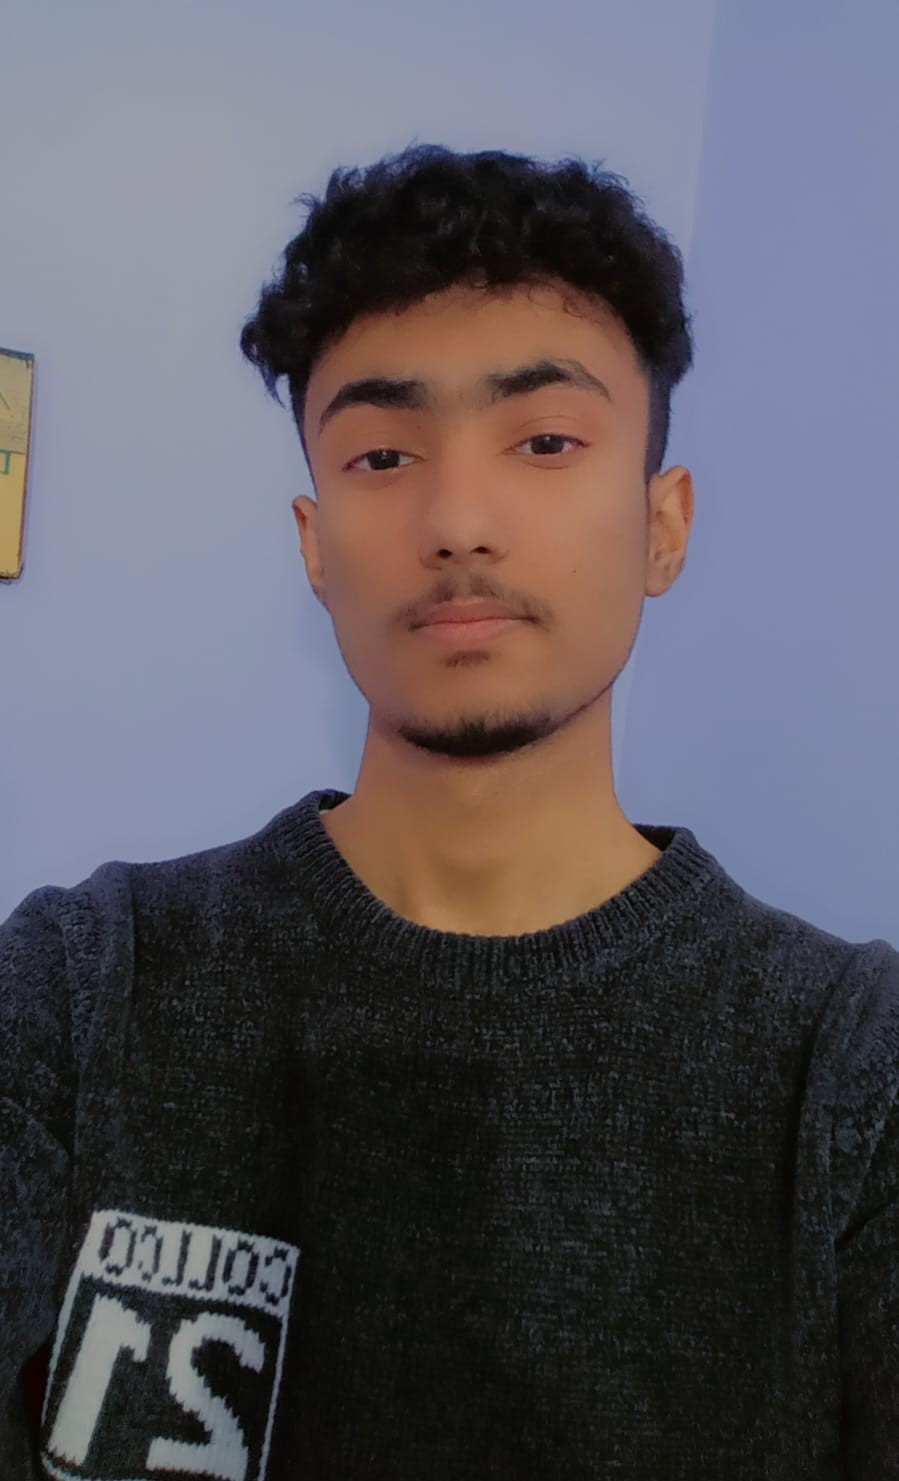
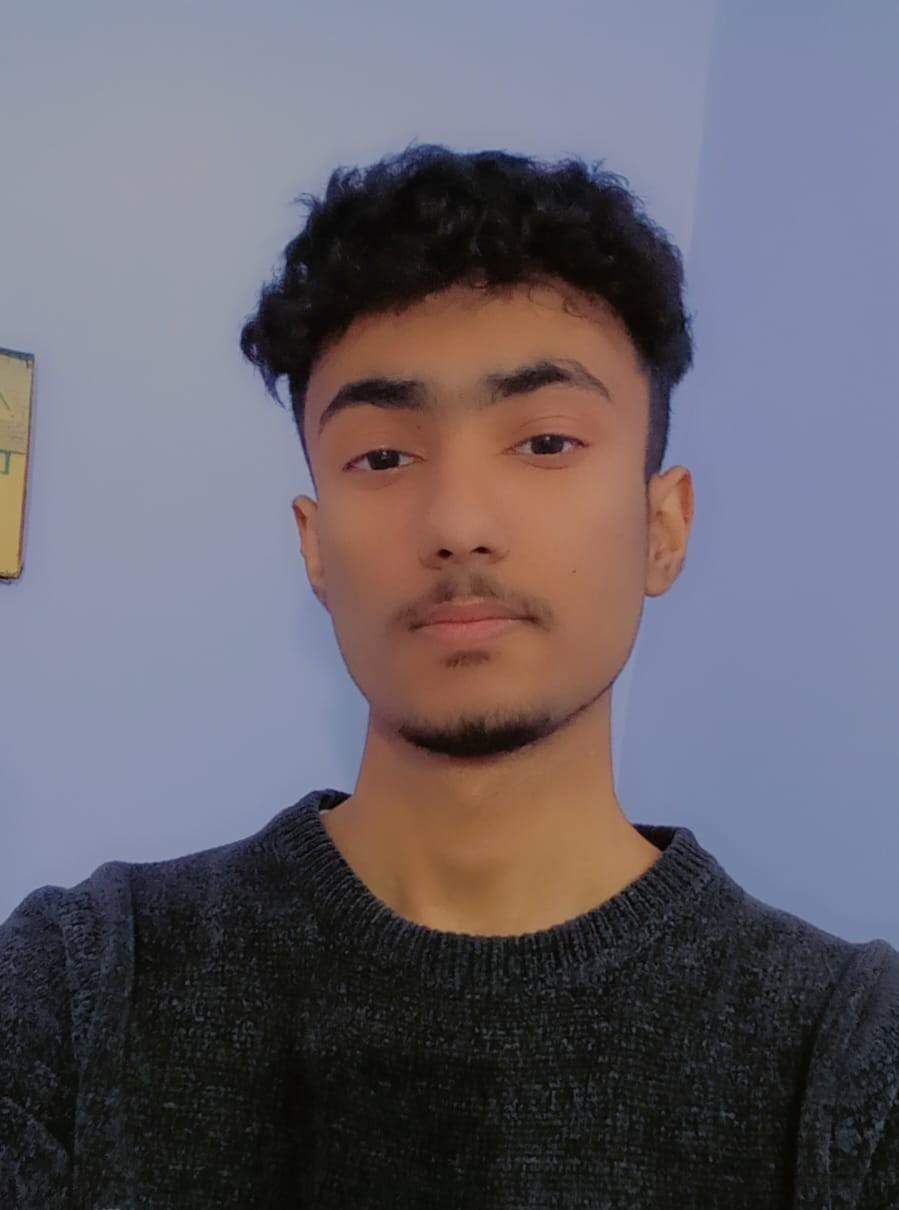
img change of md and IT

diff --git a/index.html b/index.html
@@ -144,14 +144,14 @@
                 </div>
                 <!-- Managing Director -->
                 <div data-aos="fade-up" class="profile-card">
-                    <img class="profile-img" src="MD.jpg" alt="Managing Director" />
+                    <img class="profile-img" src="MD1.jpg" alt="Managing Director" />
                     <p class="name-two">Saroj Neupane</p>
                     <p class="post">Managing Director</p>
                 </div>
 
                 <!-- IT Head -->
                 <div class="profile-card">
-                    <img class="profile-img" src="Ayush.jpeg" alt="IT Head" />
+                    <img class="profile-img" src="Ayush 1.jpg" alt="IT Head" />
                     <p class="name-two">Ayush Bhattarai</p>
                     <p class="post">IT Head</p>
                 </div>
